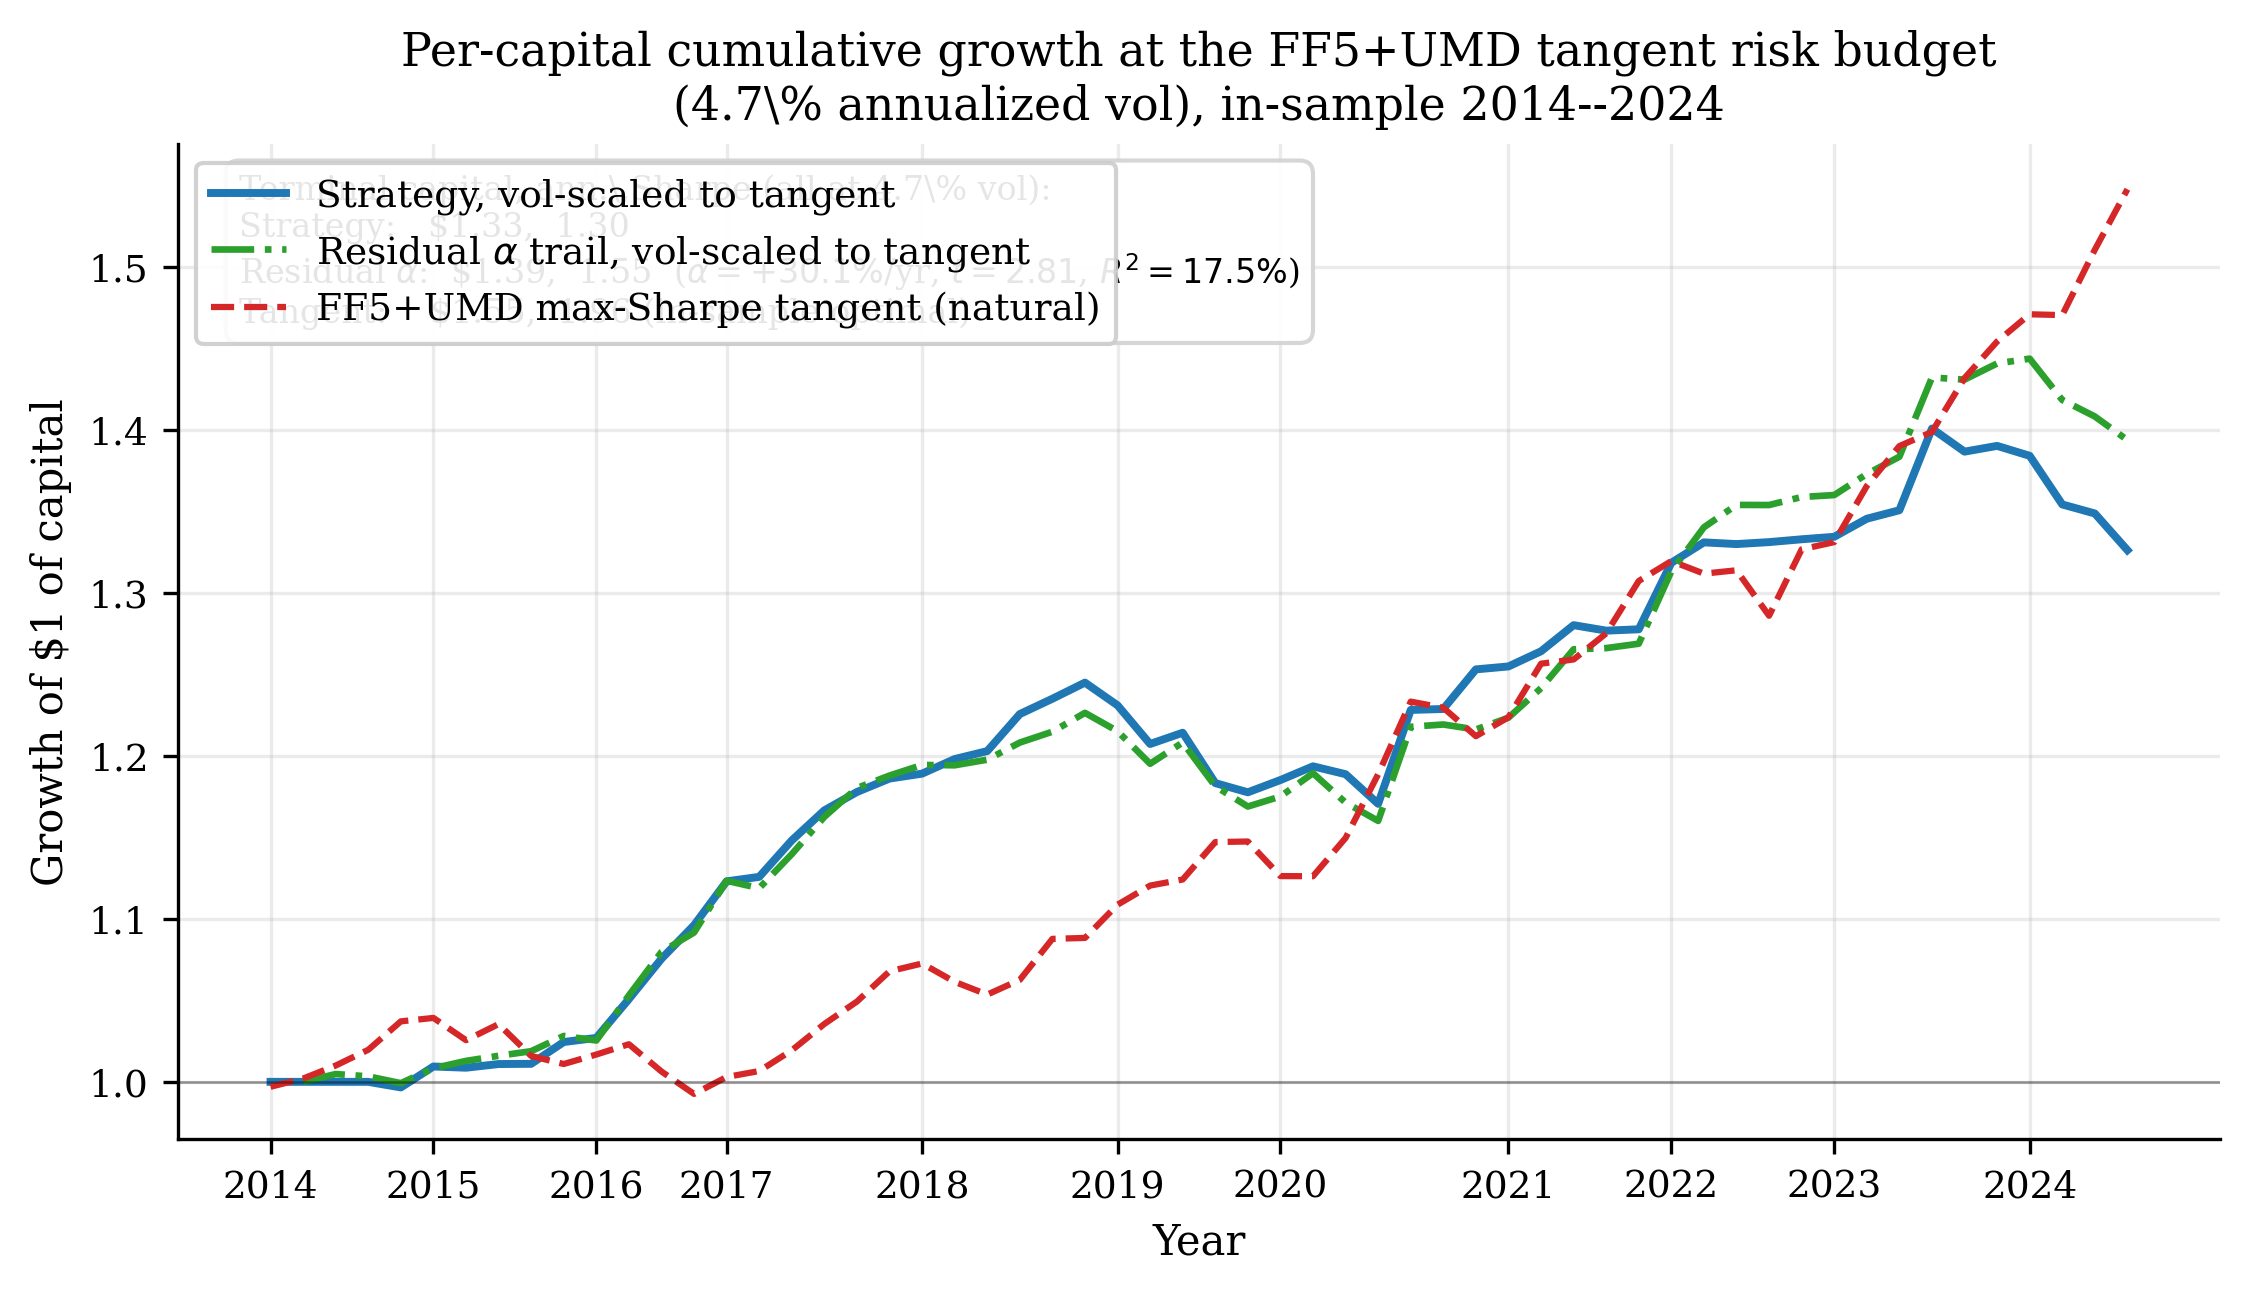
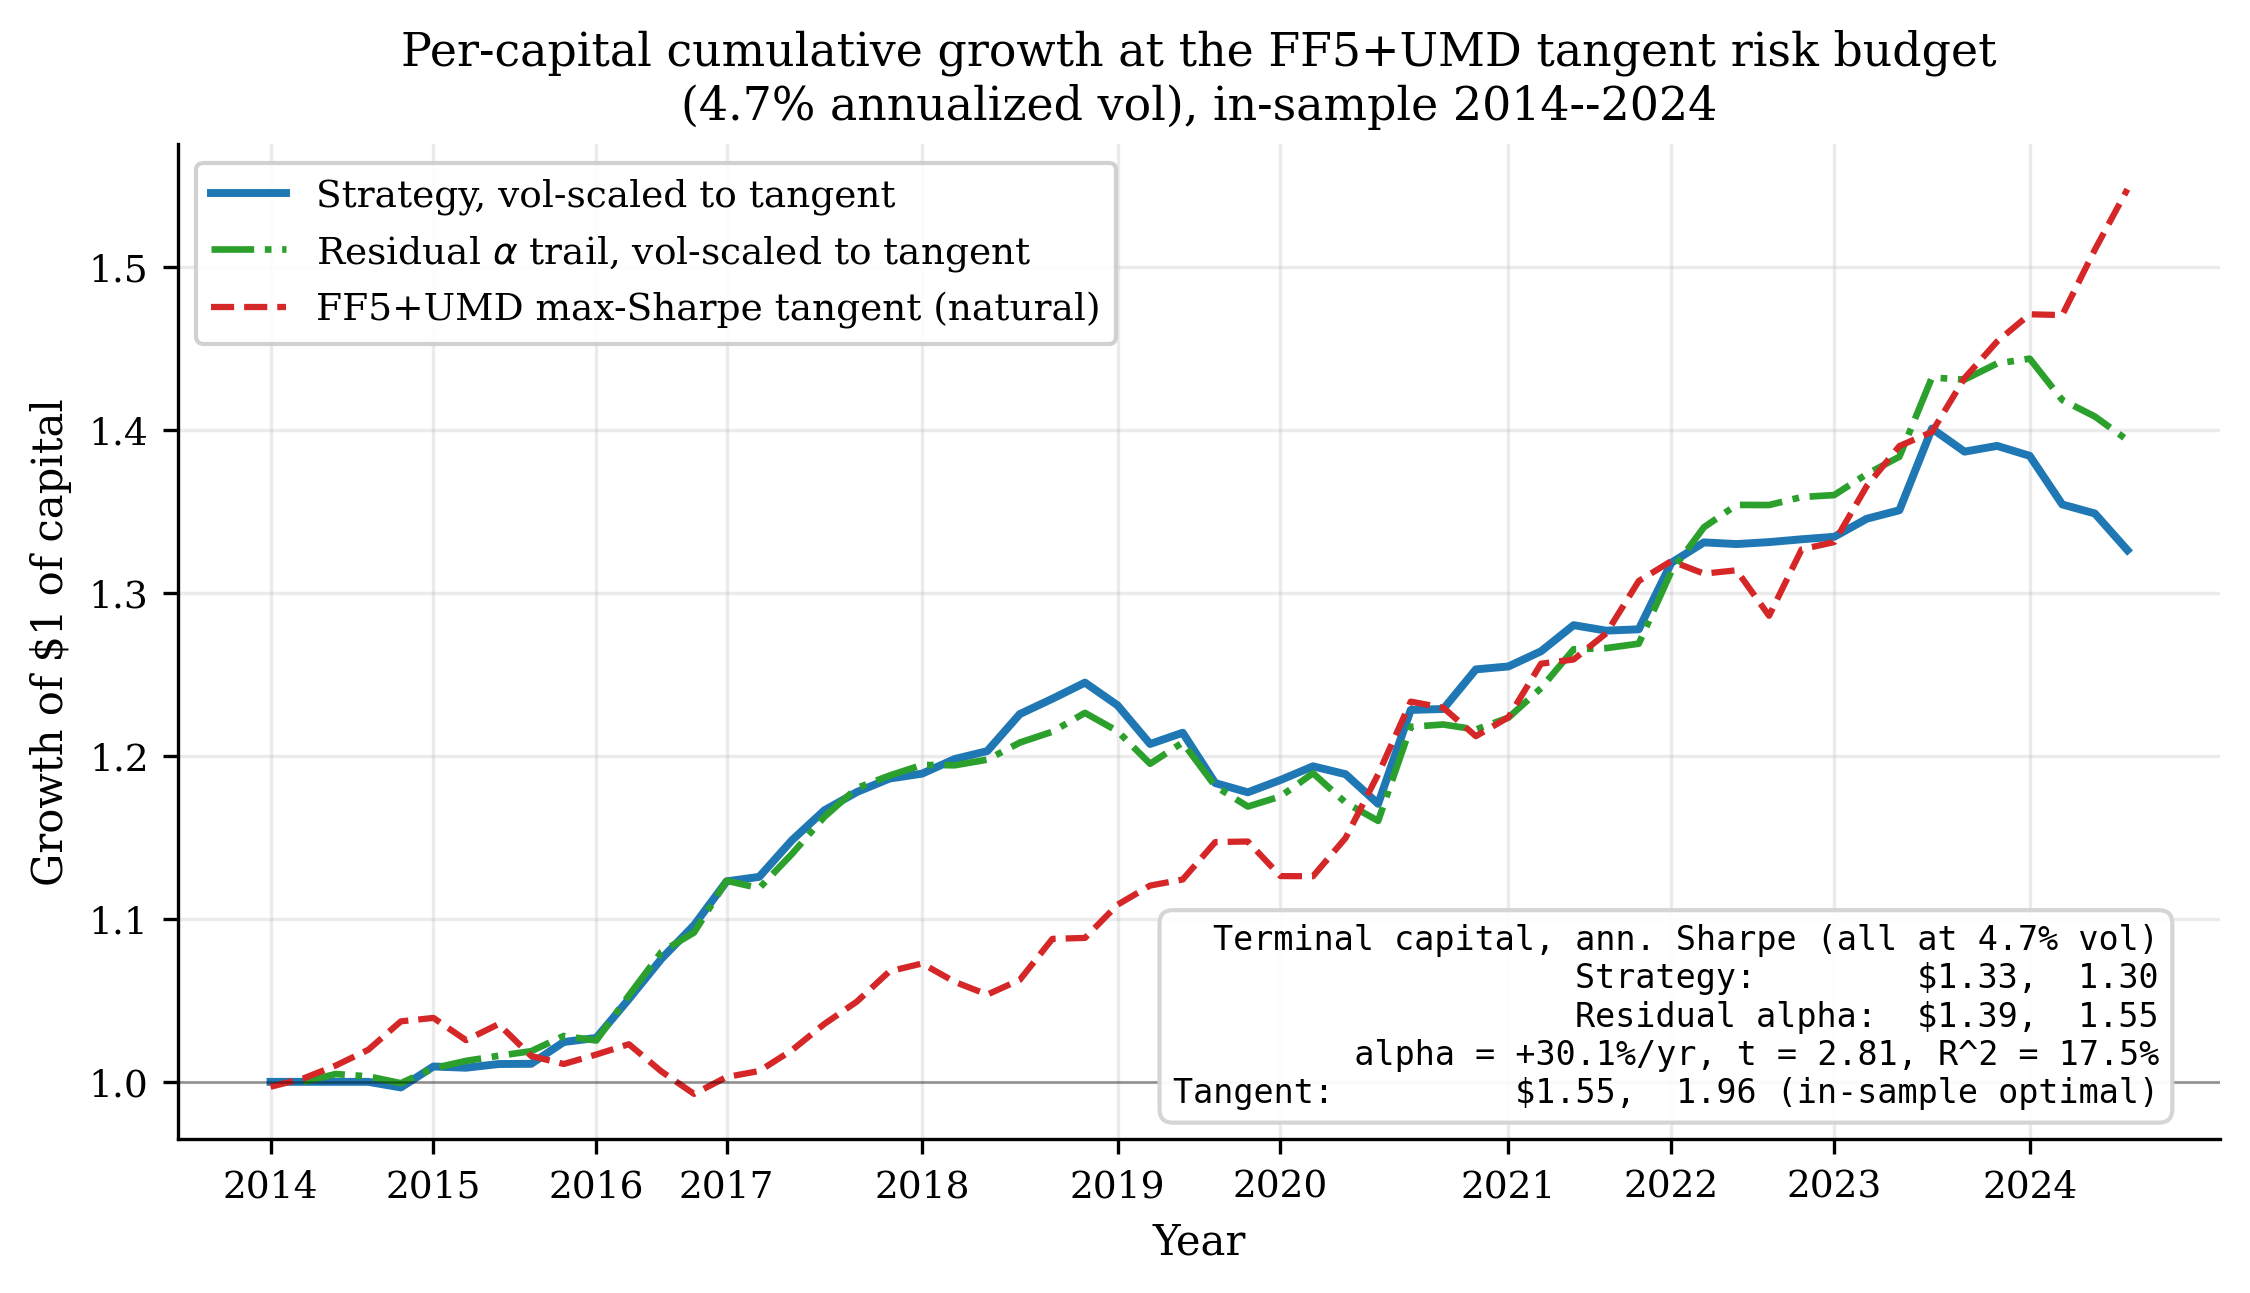
Figure 1 — separate legend and inset, remove LaTeX backslash escapes
User flag: "여전히 legend에 뭐가 겹쳐있는 모습이야"

Two fixes:

(1) Inset text box moved from top-left (overlapping the legend) to
    bottom-right, where the three line endpoints leave free space and
    the legend at top-left is untouched.

(2) All LaTeX backslash escapes (\%, \$, \,) removed from both the title
    and the inset. Matplotlib's mathtext does not strip the backslash for
    text outside dollar-sign-math-mode, so "4.7\%" was rendering as
    literal "4.7\%". The cleaned title and inset use plain "%" and "$"
    and now render correctly:

      Title:  "Per-capital cumulative growth at the FF5+UMD tangent
               risk budget (4.7% annualized vol), in-sample 2014-2024"

      Inset:  Terminal capital, ann. Sharpe (all at 4.7% vol)
              Strategy:        $1.33,  1.30
              Residual alpha:  $1.39,  1.55
                 alpha = +30.1%/yr, t = 2.81, R^2 = 17.5%
              Tangent:         $1.55,  1.96 (in-sample optimal)

diff --git a/scripts/make-paper-figures.py b/scripts/make-paper-figures.py
@@ -144,31 +144,29 @@ def make_fig1_per_capital():
     ax.set_xticks(ticks)
     ax.set_xticklabels(lbls, rotation=0)
     ax.set_xlabel("Year")
-    ax.set_ylabel(r"Growth of \$1 of capital")
+    ax.set_ylabel("Growth of $1 of capital")
     ax.set_title("Per-capital cumulative growth at the FF5+UMD tangent risk budget\n"
-                 r"(4.7\% annualized vol), in-sample 2014--2024")
+                 "(4.7% annualized vol), in-sample 2014--2024")
     ax.legend(loc="upper left", framealpha=0.9, fontsize=9)
     ax.grid(True, alpha=0.25)
 
-    # Compact summary text in the lower right (inside the axes, away from
-    # the line endpoints) so the figure stays a single self-contained panel
-    # and the axes are tight.
+    # Compact summary text in the lower right (clear of the legend at
+    # top-left and clear of the three line endpoints at top-right).
     sv_end = strat_voladj[-1] if strat_voladj[-1] is not None else 1.0
     t_end = tangent[-1] if tangent[-1] is not None else 1.0
     a_end = alpha_voladj[-1] if alpha_voladj[-1] is not None else 1.0
     summary = (
-        r"Terminal capital, ann.\,Sharpe (all at 4.7\% vol):"
-        "\n"
-        rf"Strategy:   \${sv_end:.2f},  1.30"
-        "\n"
-        rf"Residual $\alpha$:  \${a_end:.2f},  1.55  ($\alpha = +30.1\%$/yr, $t = 2.81$, $R^2 = 17.5\%$)"
-        "\n"
-        rf"Tangent:    \${t_end:.2f},  1.96 (in-sample optimal)"
+        "Terminal capital, ann. Sharpe (all at 4.7% vol)\n"
+        f"Strategy:        ${sv_end:.2f},  1.30\n"
+        f"Residual alpha:  ${a_end:.2f},  1.55\n"
+        f"   alpha = +30.1%/yr, t = 2.81, R^2 = 17.5%\n"
+        f"Tangent:         ${t_end:.2f},  1.96 (in-sample optimal)"
     )
-    ax.text(0.03, 0.97, summary, transform=ax.transAxes,
-            fontsize=8, verticalalignment="top", horizontalalignment="left",
+    ax.text(0.97, 0.03, summary, transform=ax.transAxes,
+            fontsize=8, verticalalignment="bottom", horizontalalignment="right",
+            family="monospace",
             bbox=dict(boxstyle="round,pad=0.4", facecolor="white",
-                      edgecolor="lightgray", alpha=0.92))
+                      edgecolor="lightgray", alpha=0.95))
 
     fig.tight_layout()
     out = OUT / "fig1_cumulative_pnl.png"